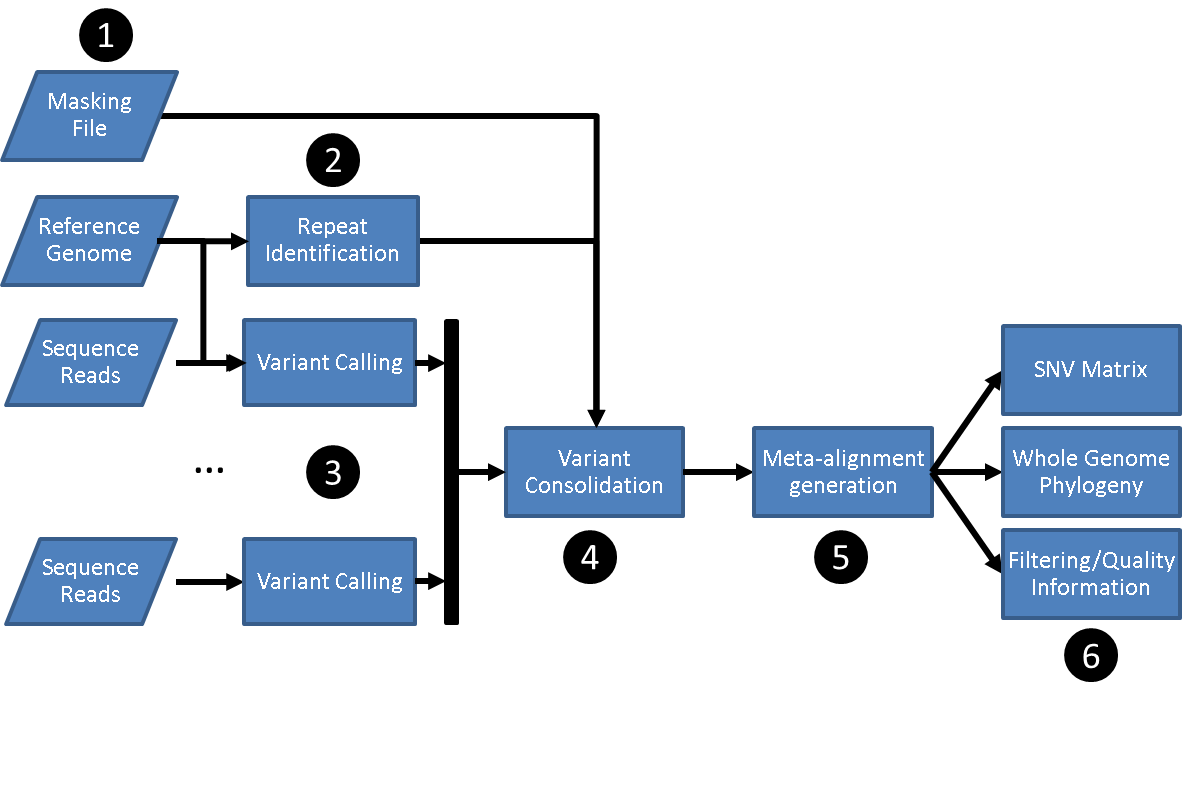
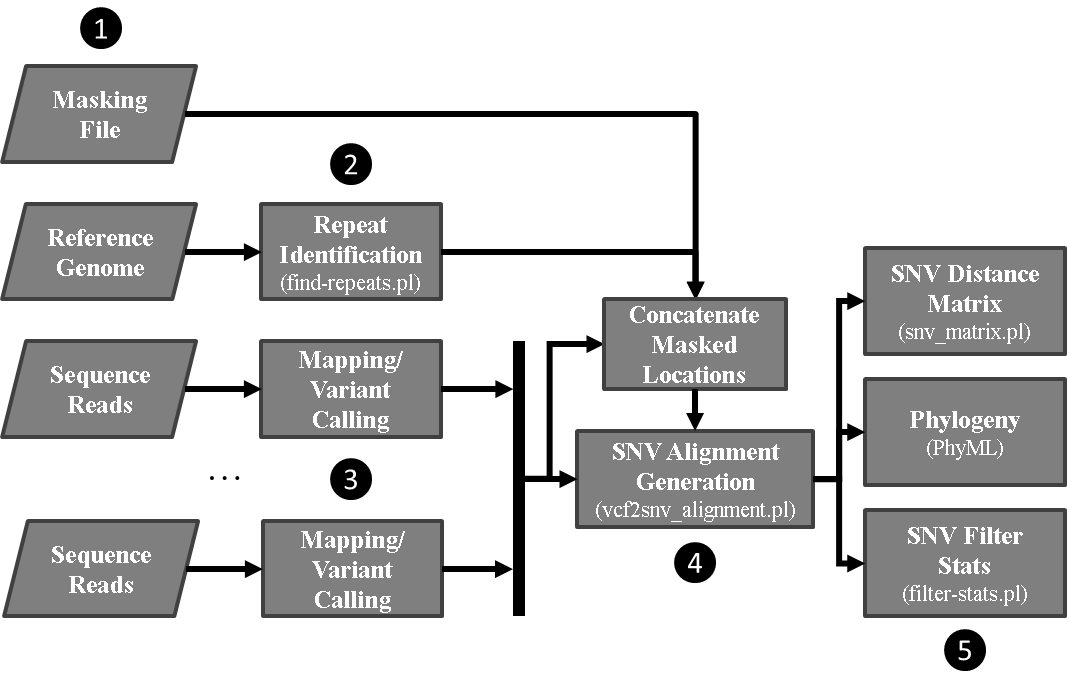
Updated home page

diff --git a/docs/index.md b/docs/index.md
@@ -11,14 +11,13 @@ SNVPhyl identifies variants and generates a phylogenetic tree by mapping the inp
 [![snvphyl-overview][]][snvphyl-overview]
 
 1. Preparing input files including:
-    1. A set of sequence reads.
-    2. A reference genome.
-    3. An optional file of regions to mask on the reference genome.
+    1. A set of sequence reads (`fastq` format).
+    2. A reference genome (`fasta` format).
+    3. An optional file of regions to mask on the reference genome (a special [tsv formatted file][]).
 2. Identification of repeat regions on the reference genome using [MUMMer][].
-3. Reference mapping and variant calling using [SMALT][], [FreeBayes][] and [SAMtools/BCFtools][].
-4. Merging and filtering variant calls to produce a set of high quality SNVs.
-5. Generating an alignment of SNVs.
-6. Building a maximum likelihood tree with [PhyML][] and generating other output files.
+3. Reference mapping and variant calling to identify high-quality SNVs (hqSNVs) using [SMALT][], [FreeBayes][] and [SAMtools/BCFtools][].
+4. Merging the identified hqSNVs to construct a multiple sequence alignment.
+5. Building a maximum likelihood tree with [PhyML][] and generating other output files.
 
 SNVPhyl is implemented as a [Galaxy][] workflow, with each of these stages implemented using a specific Galaxy tool.
 
@@ -34,11 +33,12 @@ Comments, questions, or issues can be sent to Aaron Petkau - <aaron.petkau@phac-
 
 [Galaxy]: http://galaxyproject.org/
 [Installation]: install/index.md
+[tsv formatted file]: user/input/#invalid-positions-masking-file
 [Overview]: user/index.md
-[SMALT]: http://www.sanger.ac.uk/resources/software/smalt/
+[SMALT]: http://www.sanger.ac.uk/science/tools/smalt-0
 [MUMMer]: http://mummer.sourceforge.net/
 [FreeBayes]: https://github.com/ekg/freebayes
-[SAMtools/BCFtools]: http://samtools.sourceforge.net/mpileup.shtml
+[SAMtools/BCFtools]: http://www.htslib.org/
 [PhyML]: http://www.atgc-montpellier.fr/phyml/
 [Usage]: user/usage.md
 [snvphyl-overview]: images/snvphyl-overview.png
